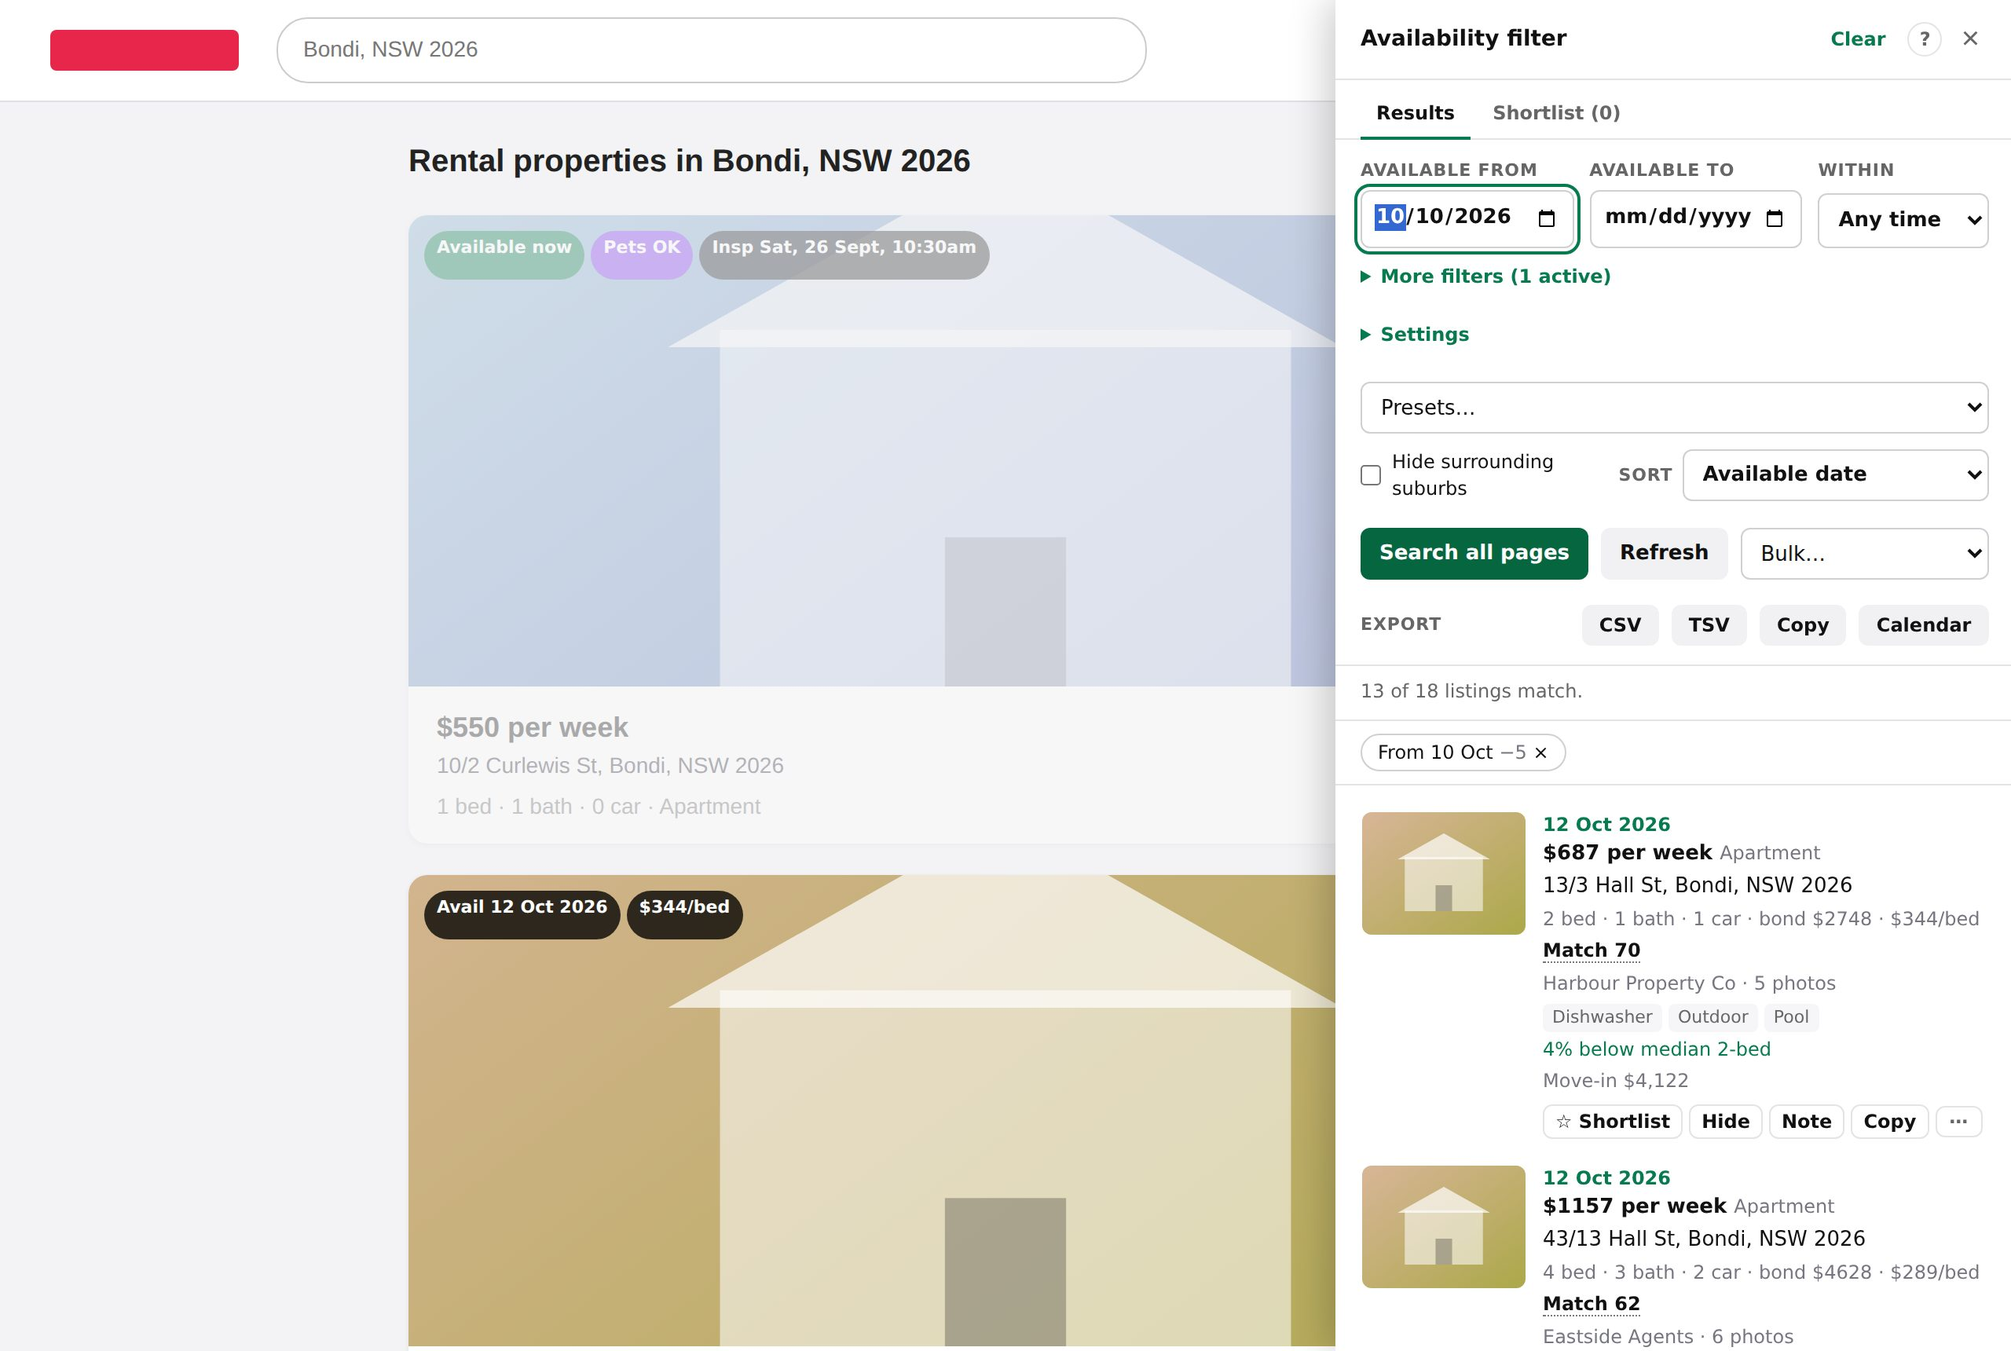
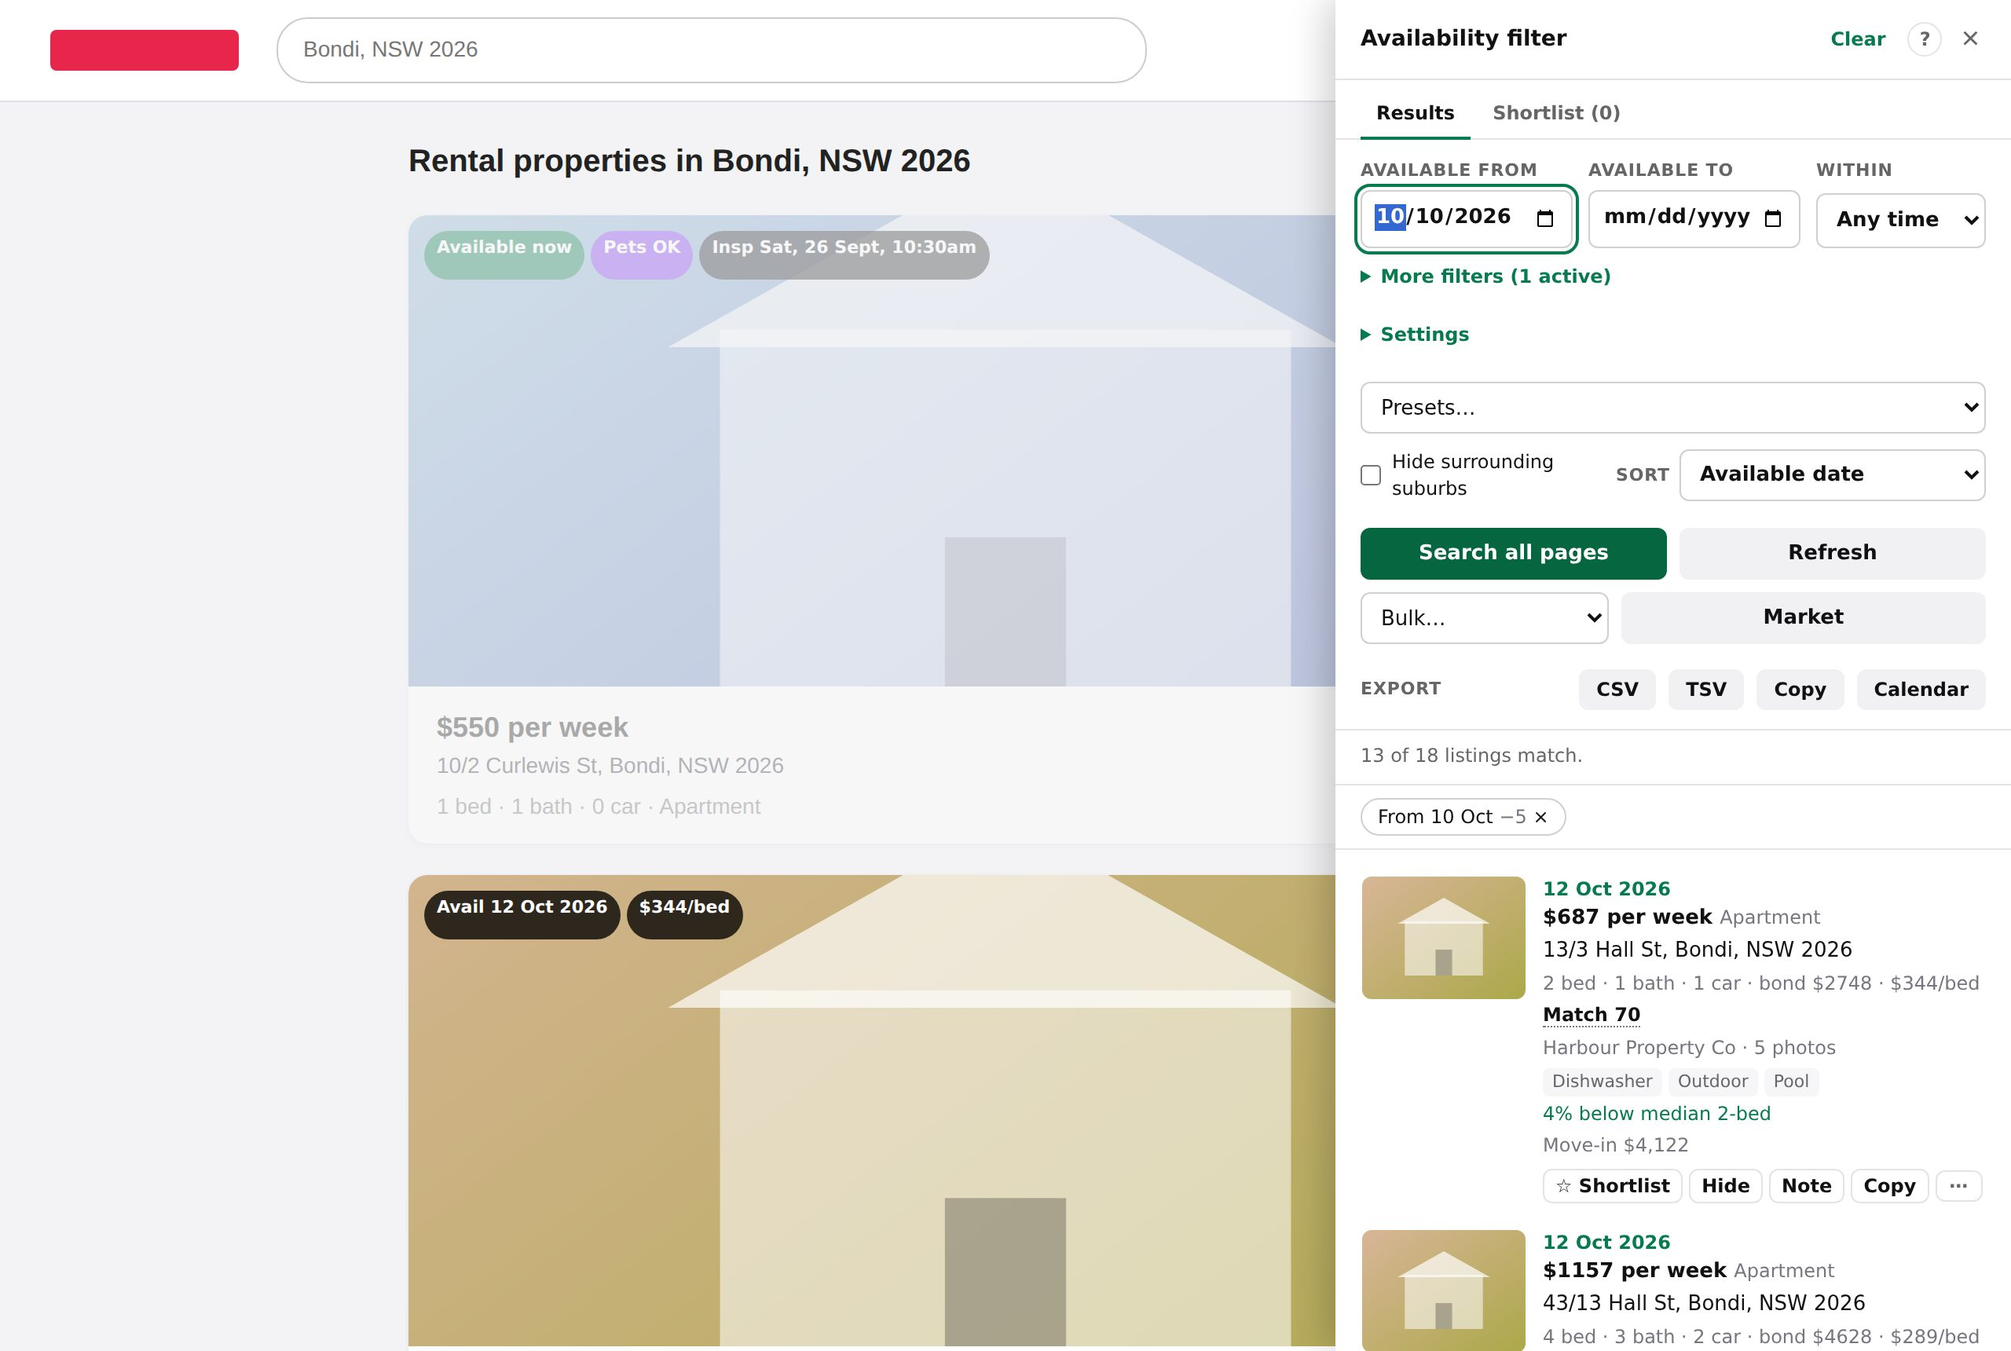
Market view: rent spread per bed count and availability by week over shown listings; click a week to filter; controls wrap instead of overflowing

diff --git a/rea-availability-filter.user.js b/rea-availability-filter.user.js
@@ -1198,6 +1198,51 @@
     return activeFilters(cfg).map((chip) => ({ ...chip, removes: filterRows(rows, without(cfg, chip), now).length - base }));
   };
 
+  // Market view: rent spread per bed count and when listings become available, over the
+  // listings currently shown. Quantiles interpolate; groups under MEDIAN_MIN show counts only.
+  const MARKET_WEEKS = 8;
+  const quantile = (sorted, q) => {
+    if (!sorted.length) return null;
+    const i = (sorted.length - 1) * q, lo = Math.floor(i);
+    return Math.round(sorted[lo] + (sorted[Math.min(lo + 1, sorted.length - 1)] - sorted[lo]) * (i - lo));
+  };
+  const marketStats = (rows, now = new Date()) => {
+    const uniq = dedupe(rows);
+    const beds = new Map();
+    for (const r of uniq) {
+      if (r.beds === '' || r.beds == null) continue;
+      const k = Math.min(+r.beds || 0, 5);
+      if (!beds.has(k)) beds.set(k, { beds: k, n: 0, rents: [], ppb: [] });
+      const g = beds.get(k);
+      g.n++;
+      if (Number.isFinite(r.priceNum)) g.rents.push(r.priceNum);
+      if (Number.isFinite(r.ppb)) g.ppb.push(r.ppb);
+    }
+    const byBeds = [...beds.values()].sort((a, b) => a.beds - b.beds).map(({ beds: b, n, rents, ppb }) => {
+      rents.sort((x, y) => x - y); ppb.sort((x, y) => x - y);
+      const enough = rents.length >= MEDIAN_MIN;
+      return { beds: b, n, priced: rents.length, min: rents[0] ?? null, max: rents[rents.length - 1] ?? null,
+        p25: enough ? quantile(rents, 0.25) : null, median: enough ? quantile(rents, 0.5) : null, p75: enough ? quantile(rents, 0.75) : null,
+        ppb: ppb.length >= MEDIAN_MIN ? quantile(ppb, 0.5) : null };
+    });
+    const today = startOfDay(now);
+    const weeks = [{ label: 'Now', from: null, n: 0 }];
+    for (let w = 0; w < MARKET_WEEKS; w++) {
+      const from = new Date(today); from.setDate(from.getDate() + 1 + w * 7);
+      weeks.push({ from: ymdLocal(from), to: ymdLocal(new Date(from.getFullYear(), from.getMonth(), from.getDate() + 6)), n: 0 });
+    }
+    const later = { label: 'Later', n: 0 }, unknown = { label: 'Unknown', n: 0 };
+    for (const r of uniq) {
+      if (!(r.avail instanceof Date) || isNaN(r.avail)) { unknown.n++; continue; }
+      const days = Math.round((startOfDay(r.avail) - today) / 864e5);
+      if (days <= 0) weeks[0].n++;
+      else if (days <= MARKET_WEEKS * 7) weeks[Math.ceil(days / 7)].n++;
+      else later.n++;
+    }
+    const all = uniq.map((r) => r.priceNum).filter(Number.isFinite).sort((a, b) => a - b);
+    return { n: uniq.length, median: all.length >= MEDIAN_MIN ? quantile(all, 0.5) : null, byBeds, byWeek: [...weeks, later, unknown] };
+  };
+
   // Dedupe by URL, preferring the exact-match copy over a surrounding-suburb one.
   const dedupe = (rows) => {
     const byUrl = new Map();
@@ -1527,7 +1572,7 @@ ${r.note ? `<div class="n">${esc(r.note)}</div>` : ''}<div class="box">Notes at 
   if (typeof window === 'undefined') {
     module.exports = {
       parseAvail, parsePrice, parseExchange, rowsFrom, extractResults, pageUrl, searchKey, isSearchPage, pageNum, toRow,
-      fetchResults, fetchAllPages, sleep, unpackJson, findListing, parseListingPage, discover, extractCoords, extractAgency, extractFeatures, extractMedia, listingId, dedupe, windowEnd, extractInspections, extractListed, toDate, applyFilters, filterRows, keywordTest, toTsv, toCsv, toIcs, printHtml, summaryText, inspectDays, planDay, tzOf, encodeShare, decodeShare, shareUrl, shareFromHash, schemaWarnings, probe, esc, safeUrl, rowStore, marksStore, snapshotStore, presetStore, healthStore, fillRates, APP_STATUSES, addressKey, DEFAULT_CFG, activeFilters, removedBy, withScores, parseAnchor, haversineKm, AMENITIES, amenitiesOf, parseAmenCfg, amenCfgString, moveIn, withMedians, medianLabel, sanitizeCfg, itemsOf, sampleOf, cfgError, diffStats, ago, startOfDay, isFresh,
+      fetchResults, fetchAllPages, sleep, unpackJson, findListing, parseListingPage, discover, extractCoords, extractAgency, extractFeatures, extractMedia, listingId, dedupe, windowEnd, extractInspections, extractListed, toDate, applyFilters, filterRows, keywordTest, toTsv, toCsv, toIcs, printHtml, summaryText, inspectDays, planDay, tzOf, marketStats, encodeShare, decodeShare, shareUrl, shareFromHash, schemaWarnings, probe, esc, safeUrl, rowStore, marksStore, snapshotStore, presetStore, healthStore, fillRates, APP_STATUSES, addressKey, DEFAULT_CFG, activeFilters, removedBy, withScores, parseAnchor, haversineKm, AMENITIES, amenitiesOf, parseAmenCfg, amenCfgString, moveIn, withMedians, medianLabel, sanitizeCfg, itemsOf, sampleOf, cfgError, diffStats, ago, startOfDay, isFresh,
     };
     return;
   }
@@ -1606,7 +1651,7 @@ ${r.note ? `<div class="n">${esc(r.note)}</div>` : ''}<div class="box">Notes at 
   .rf-help dd{margin:0;color:var(--rf-muted)}
   .rf-item:focus{outline:2px solid var(--rf-accent-fg);outline-offset:-2px;border-radius:8px}
   .rf-x{border:0;background:none;font-size:20px;line-height:1;cursor:pointer;color:var(--rf-muted);padding:0 4px}
-  .rf-controls{padding:12px 16px;border-bottom:1px solid var(--rf-line);display:grid;gap:10px;max-height:60vh;overflow-y:auto}
+  .rf-controls{padding:12px 16px;border-bottom:1px solid var(--rf-line);display:grid;grid-template-columns:minmax(0,1fr);gap:10px;overflow-x:hidden;max-height:60vh;overflow-y:auto}
   .rf-dates{display:grid;grid-template-columns:1fr 1fr .8fr;gap:10px}
   .rf-controls label{display:grid;gap:4px;font-size:11px;font-weight:600;text-transform:uppercase;
     letter-spacing:.04em;color:var(--rf-muted)}
@@ -1623,7 +1668,7 @@ ${r.note ? `<div class="n">${esc(r.note)}</div>` : ''}<div class="box">Notes at 
   .rf-controls .rf-check{display:flex;align-items:center;gap:7px;font-size:12px;font-weight:500;text-transform:none;
     letter-spacing:0;color:var(--rf-fg)}
   .rf-check input{margin:0;accent-color:var(--rf-accent)}
-  .rf-actions{display:flex;gap:8px;align-items:center}
+  .rf-actions{display:flex;flex-wrap:wrap;gap:8px;align-items:center}
   .rf-controls>.rf-actions:not(.rf-exports){position:sticky;bottom:-12px;background:var(--rf-bg);padding:6px 0;z-index:1}
   .rf-btn{flex:1;padding:9px 12px;border:0;border-radius:6px;background:var(--rf-accent);color:#fff;
     font:600 13px system-ui,sans-serif;cursor:pointer}
@@ -1708,6 +1753,20 @@ ${r.note ? `<div class="n">${esc(r.note)}</div>` : ''}<div class="box">Notes at 
   .rf-plan{font:12px system-ui,sans-serif;padding:4px 6px;border:1px solid var(--rf-input);border-radius:6px;background:var(--rf-bg);color:var(--rf-fg)}
   .rf-plan[hidden]{display:none}
   .rf-planner{padding:8px 12px}
+  .rf-market{padding:8px 12px;font-size:12px;min-width:0}
+  .rf-market-t{overflow-x:auto;max-width:100%}
+  .rf-market table{border-collapse:collapse;width:100%;margin:6px 0 12px}
+  .rf-market caption{text-align:left;font-weight:600;padding:4px 0}
+  .rf-market th,.rf-market td{border-bottom:1px solid var(--rf-line);padding:5px 4px;text-align:right}
+  .rf-market td{white-space:nowrap}
+  .rf-market th:first-child{text-align:left}
+  .rf-market h3{font-size:12px;margin:8px 0 4px}
+  .rf-bars{list-style:none;margin:0;padding:0;display:grid;gap:3px}
+  .rf-bars button,.rf-bars div{all:unset;box-sizing:border-box;display:grid;grid-template-columns:64px 1fr 28px;align-items:center;gap:8px;width:100%;padding:2px 4px;border-radius:4px}
+  .rf-bars button{cursor:pointer}
+  .rf-bars button:hover,.rf-bars button:focus-visible{background:var(--rf-line);outline:2px solid var(--rf-accent);outline-offset:-2px}
+  .rf-bar{display:block;height:12px;min-width:2px;background:var(--rf-accent);border-radius:3px}
+  .rf-bar-n{text-align:right;font-variant-numeric:tabular-nums}
   .rf-plan-head{display:flex;align-items:center;gap:8px;flex-wrap:wrap;font-weight:600;margin-bottom:6px}
   .rf-plan-head .rf-btn{flex:0 0 auto;margin-left:auto;padding:5px 10px;font-size:12px}
   .rf-planner ol{list-style:none;margin:0;padding:0}
@@ -1916,6 +1975,7 @@ ${r.note ? `<div class="n">${esc(r.note)}</div>` : ''}<div class="box">Notes at 
           <select class="rf-bulk" aria-label="Bulk action on the listings shown" disabled>
             <option value="">Bulk…</option><option value="star">Shortlist all shown</option><option value="hide">Hide all shown</option>
           </select>
+          <button class="rf-btn sec rf-market-btn" aria-pressed="false" disabled title="Rent spread per bed count and when the listings shown become available">Market</button>
         </div>
         <div class="rf-actions rf-exports">
           <span class="rf-label">Export</span>
@@ -1962,6 +2022,7 @@ ${r.note ? `<div class="n">${esc(r.note)}</div>` : ''}<div class="box">Notes at 
       bulk: panel.querySelector('.rf-bulk'),
       preset: panel.querySelector('.rf-preset'),
       slBulk: panel.querySelector('.rf-sl-bulk'),
+      market: panel.querySelector('.rf-market-btn'),
       list: panel.querySelector('.rf-list'),
     };
 
@@ -2207,6 +2268,23 @@ ${r.note ? `<div class="n">${esc(r.note)}</div>` : ''}<div class="box">Notes at 
       if (v === 'unstar-declined') return `Removed ${marks.setMany(rows.filter((r) => r.appStatus === 'declined'), 's', false)} declined.`;
       if (v === 'unstar') return `Removed ${marks.setMany(rows, 's', false)} from the shortlist.`;
       return '';
+    });
+    ui.market.addEventListener('click', () => {
+      ui.marketOn = !ui.marketOn;
+      ui.market.setAttribute('aria-pressed', String(ui.marketOn));
+      showResults();
+    });
+    ui.list.addEventListener('click', (e) => {
+      const b = e.target.closest('[data-week]');
+      if (!b || !ui.rows) return;
+      const w = marketStats(ui.rows).byWeek[+b.dataset.week];
+      const later = new Date(); later.setDate(later.getDate() + 1 + MARKET_WEEKS * 7);
+      const range = w.label === 'Now' ? { from: '', to: ymdLocal(new Date()) } : w.label === 'Later' ? { from: ymdLocal(later), to: '' } : { from: w.from, to: w.to };
+      const next = { ...cfg, ...range, withinDays: '' };
+      for (const [k, el] of fields) if (next[k] !== cfg[k]) write(el, next[k]);
+      ui.marketOn = false;
+      ui.market.setAttribute('aria-pressed', 'false');
+      onChange({ type: 'change' });
     });
     ui.active.addEventListener('click', (e) => {
       const b = e.target.closest('[data-chip]');
@@ -2466,7 +2544,7 @@ ${r.note ? `<div class="n">${esc(r.note)}</div>` : ''}<div class="box">Notes at 
     ui.status.appendChild(b);
   }
 
-  const setExport = (disabled) => { for (const b of ui.exports) b.disabled = disabled; ui.bulk.disabled = disabled; };
+  const setExport = (disabled) => { for (const b of ui.exports) b.disabled = disabled; ui.bulk.disabled = disabled; ui.market.disabled = disabled; };
 
   const setStatus = (msg, isErr) => {
     ui.status.textContent = msg;
@@ -2508,7 +2586,7 @@ ${r.note ? `<div class="n">${esc(r.note)}</div>` : ''}<div class="box">Notes at 
     setExport(rows.length === 0);
     setLaunchCount(rows.length);
     if (!rows.length) return setEmpty('Nothing matches those filters.');
-    ui.list.innerHTML = itemsHtml(rows.slice(0, RENDER_CHUNK)) + moreHtml(rows.length - RENDER_CHUNK);
+    ui.list.innerHTML = ui.marketOn ? marketHtml(marketStats(rows)) : itemsHtml(rows.slice(0, RENDER_CHUNK)) + moreHtml(rows.length - RENDER_CHUNK);
     ui.list.scrollTop = 0;
   }
 
@@ -2523,6 +2601,23 @@ ${r.note ? `<div class="n">${esc(r.note)}</div>` : ''}<div class="box">Notes at 
         <a href="${esc(x.r.url)}" target="_blank" rel="noopener">${esc(x.r.address)}</a> <span class="rf-type">${esc(x.r.price)}</span>
         ${x.gapMin != null ? `<div class="rf-meta">${x.same ? 'Another time for the same listing' : x.flag === 'clash' ? 'Overlaps the previous inspection' : `${x.gapMin} min after the previous${x.km != null ? `, ${x.km} km away` : ''}${x.flag === 'tight' ? ' — tight' : ''}`}</div>` : ''}
       </li>`).join('')}</ol><div class="rf-meta">Assumes ${INSPECT_MINUTES} min per inspection and straight-line distance.</div></div>`;
+  }
+
+  function marketHtml(m) {
+    const $ = (v) => (v == null ? '–' : `$${v.toLocaleString('en-AU')}`);
+    const range = (a, b) => (a == null ? '–' : a === b ? $(a) : `${$(a)}–${$(b)}`);
+    const top = Math.max(1, ...m.byWeek.map((w) => w.n));
+    const weekLabel = (w) => w.label || shortDate(w.from);
+    return `<div class="rf-market"><div class="rf-plan-head">${m.n} listing${m.n === 1 ? '' : 's'} shown${m.median != null ? ` · median ${$(m.median)}/wk` : ''}</div>
+      <div class="rf-market-t"><table><caption>Weekly rent by bedrooms</caption><thead><tr><th scope="col">Beds</th><th scope="col">Listings</th><th scope="col">Median</th><th scope="col">Middle half</th><th scope="col">Range</th><th scope="col">Per bed</th></tr></thead>
+      <tbody>${m.byBeds.map((g) => `<tr><th scope="row">${g.beds === 0 ? 'Studio' : g.beds === 5 ? '5+' : g.beds}</th><td>${g.n}</td><td>${$(g.median)}</td>
+        <td>${range(g.p25, g.p75)}</td><td>${range(g.min, g.max)}</td><td>${$(g.ppb)}</td></tr>`).join('')}</tbody></table></div>
+      <h3>Available</h3><ul class="rf-bars">${m.byWeek.map((w, i) => [w, i]).filter(([w]) => w.n || w.from).map(([w, i]) => {
+        const data = w.label === 'Unknown' ? '' : ` data-week="${i}"`;
+        const inner = `<span class="rf-bar-l">${esc(weekLabel(w))}</span><span class="rf-bar" style="width:${Math.round((w.n / top) * 100)}%"></span><span class="rf-bar-n">${w.n}</span>`;
+        return `<li>${data && w.n ? `<button type="button"${data} title="Show listings available ${w.from ? `${esc(shortDate(w.from))} to ${esc(shortDate(w.to))}` : esc(w.label.toLowerCase())}">${inner}</button>` : `<div>${inner}</div>`}</li>`;
+      }).join('')}</ul>
+      <div class="rf-meta">Over the listings your filters show. Medians need ${MEDIAN_MIN}+ priced listings. Click a week to filter to it.</div></div>`;
   }
 
   // Side-by-side comparison: one column per listing, best value per row highlighted.

diff --git a/test/e2e/edge.js b/test/e2e/edge.js
@@ -599,6 +599,28 @@ const waitStatus = (p, re, timeout = 15000) => p.waitForFunction((src) => new Re
     await done(page); await ctx.close();
   }
 
+  // 24b. Market view: rent per bed count and availability by week; clicking a week filters to it.
+  {
+    const ctx = await browser.newContext();
+    const page = await open(ctx);
+    await page.click('#rf-launch'); await page.click('#rf-run'); await waitStatus(page, /listings match/);
+    await page.click('.rf-market-btn');
+    await page.waitForSelector('.rf-market table');
+    assert.equal(await page.getAttribute('.rf-market-btn', 'aria-pressed'), 'true');
+    assert.ok((await page.$$('.rf-market tbody tr')).length >= 2, 'bed groups');
+    const bars = await page.$$eval('.rf-bars button[data-week]', (b) => b.map((x) => [x.dataset.week, +x.querySelector('.rf-bar-n').textContent]));
+    assert.ok(bars.length >= 1, 'clickable weeks');
+    const [wk, n] = bars.find(([w]) => w !== '0') || bars[0];
+    await page.click(`.rf-bars button[data-week="${wk}"]`);
+    await page.waitForSelector('.rf-item');
+    assert.equal(await page.getAttribute('.rf-market-btn', 'aria-pressed'), 'false');
+    const shown = await page.$$eval('.rf-item', (e) => e.length);
+    assert.equal(shown, n, 'week filter shows exactly that bucket');
+    assert.ok(await page.inputValue('#rf-from') || await page.inputValue('#rf-to'), 'dates set');
+    console.log('market view: ok,', bars.length, 'weeks;', n, 'in week', wk);
+    await done(page); await ctx.close();
+  }
+
   // 25. Drift canary + selfcheck: prime the usual rates, then serve pages without inspections.
   {
     const ctx = await browser.newContext({ permissions: ['clipboard-read', 'clipboard-write'] });

diff --git a/test/core.test.js b/test/core.test.js
@@ -429,3 +429,26 @@ test('activeFilters ignores whitespace-only text; summary/print show ? for blank
   assert.match(core.summaryText(r), /2 bed, \? bath, \? car/);
   assert.match(core.printHtml([r]), /2 bed · \? bath · \? car/);
 });
+
+test('marketStats: per-bed quantiles, week buckets, studio and 5+ groups', () => {
+  const now = new Date(2026, 8, 23, 10);
+  const mk = (i, beds, price, availDays) => ({ id: String(i), url: `u${i}`, beds, priceNum: price, ppb: beds ? price / beds : null,
+    avail: availDays == null ? null : new Date(2026, 8, 23 + availDays) });
+  const rows = [
+    ...[500, 520, 540, 560, 580].map((p, i) => mk(i, 2, p, i === 0 ? -3 : i)), // now, +1..+4 days
+    mk(10, 0, 400, 8), mk(11, 6, 1500, 70), mk(12, 1, NaN, null), mk(12, 1, NaN, null),
+  ];
+  const m = core.marketStats(rows, now);
+  assert.equal(m.n, 8, 'deduped by url');
+  const two = m.byBeds.find((g) => g.beds === 2);
+  assert.deepEqual([two.n, two.p25, two.median, two.p75, two.min, two.max, two.ppb], [5, 520, 540, 560, 500, 580, 270]);
+  assert.deepEqual(m.byBeds.map((g) => g.beds), [0, 1, 2, 5], '6 beds grouped as 5+');
+  assert.equal(m.byBeds[0].median, null, 'too few for a median');
+  const w = m.byWeek;
+  assert.equal(w[0].label, 'Now'); assert.equal(w[0].n, 1);
+  assert.equal(w[1].n, 4); assert.equal(w[1].from, '2026-09-24'); assert.equal(w[1].to, '2026-09-30');
+  assert.equal(w[2].n, 1, 'day 8 is week 2');
+  assert.equal(w.at(-2).n, 1, 'day 70 is later');
+  assert.equal(w.at(-1).n, 1, 'unknown');
+  assert.equal(m.median, 540);
+});

diff --git a/test/e2e/screenshots.js b/test/e2e/screenshots.js
@@ -65,6 +65,7 @@ const SEARCH = `${ORIGIN}/rent/in-bondi,+nsw+2026/list-1`;
   } });
   await shot('badges', { seed: history, act: async (page) => { await page.evaluate(() => window.scrollTo(0, 690)); } });
   await shot('drawer', { act: async (page) => { await search(page); await setFrom(page, '2026-10-10'); } });
+  await shot('market', { act: async (page) => { await search(page); await page.click('.rf-market-btn'); await page.waitForSelector('.rf-market table'); } });
   await shot('filters', { act: async (page) => {
     await search(page);
     await page.click('#rf-more summary');
